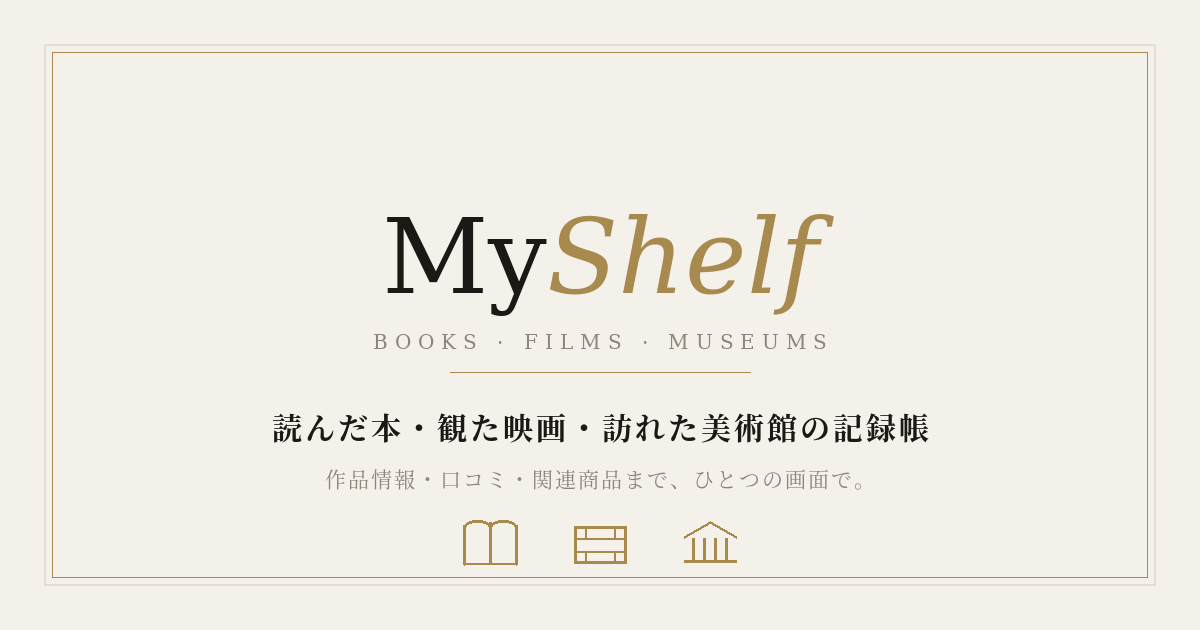
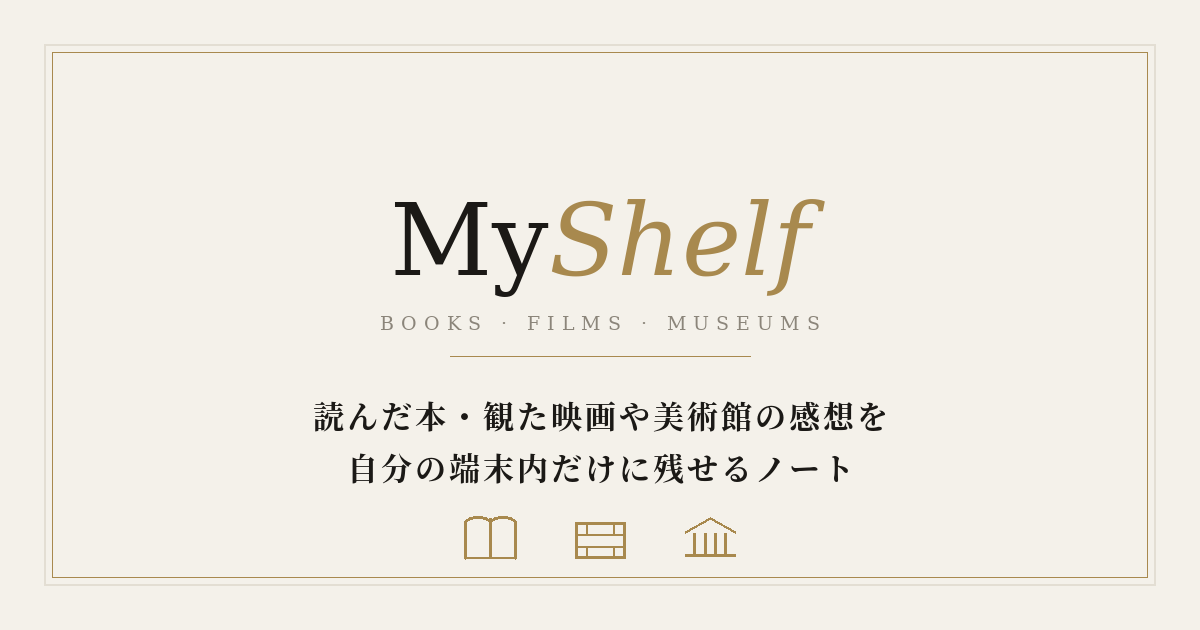
feat: カバー画像の自己登録と公開の免責、説明文を更新

diff --git a/index.html b/index.html
@@ -7,11 +7,11 @@
 <title>MyShelf — 本・映画・美術館の感想ノート</title>
 <link rel="manifest" href="manifest.json">
 <link rel="apple-touch-icon" href="icon-192.png">
-<meta name="description" content="読んだ本・観た映画・訪れた美術館の記録帳。作品情報・口コミ・関連商品まで、ひとつの画面で。">
+<meta name="description" content="読んだ本・観た映画や美術館の感想を自分の端末内だけに残せるノート">
 <meta property="og:type" content="website">
 <meta property="og:site_name" content="MyShelf">
 <meta property="og:title" content="MyShelf — 本・映画・美術館の感想ノート">
-<meta property="og:description" content="読んだ本・観た映画・訪れた美術館の記録帳。作品情報・口コミ・関連商品まで、ひとつの画面で。">
+<meta property="og:description" content="読んだ本・観た映画や美術館の感想を自分の端末内だけに残せるノート">
 <meta property="og:url" content="https://myshelf-two.vercel.app/">
 <meta property="og:image" content="https://myshelf-two.vercel.app/og.png">
 <meta property="og:image:width" content="1200">
@@ -20,7 +20,7 @@
 <meta property="og:locale" content="ja_JP">
 <meta name="twitter:card" content="summary_large_image">
 <meta name="twitter:title" content="MyShelf — 本・映画・美術館の感想ノート">
-<meta name="twitter:description" content="読んだ本・観た映画・訪れた美術館の記録帳。作品情報・口コミ・関連商品まで、ひとつの画面で。">
+<meta name="twitter:description" content="読んだ本・観た映画や美術館の感想を自分の端末内だけに残せるノート">
 <meta name="twitter:image" content="https://myshelf-two.vercel.app/og.png">
 <link rel="preconnect" href="https://fonts.googleapis.com">
 <link rel="preconnect" href="https://fonts.gstatic.com" crossorigin>
@@ -292,7 +292,11 @@ function renderForm(id){
       <div id="aclist"></div>
     </div>
     <input type="hidden" id="f_cover" value="${esc(it?.cover)}">
+    <input type="file" id="f_img" accept="image/*" style="display:none" onchange="pickCoverFile(this)">
     <div id="coverprev">${it?.cover?coverPrevHtml(it.cover):''}</div>
+    <div class="btnrow" style="margin-top:10px">
+      <button type="button" class="btn small ghost" onclick="$('#f_img').click()">カバー画像を選ぶ</button>
+    </div>
     <label id="creatorlabel">${creatorLabel(formType)}</label>
     <div class="acwrap">
       <input type="text" id="f_creator" value="${esc(it?.creator)}" placeholder="タップするとタイトルを参考に候補を表示" onfocus="onCreatorFocus()" oninput="hideAcc()" onblur="setTimeout(hideAcc,250)">
@@ -316,6 +320,31 @@ function setType(t){formType=t;document.querySelectorAll('#typesel button').forE
 function setStar(n){window._star=n;paintStars()}
 function paintStars(){document.querySelectorAll('#starinput span').forEach(s=>s.classList.toggle('lit',+s.dataset.n<=window._star))}
 function coverPrevHtml(u){return `<div class="coverprev"><img src="${esc(u)}" alt="カバー"><span class="rm" onclick="clearCover()">カバーを外す</span></div>`}
+/* 画像を端末から選んで縮小し、カバーとして保存（美術展など書影が無いとき用） */
+function shrinkImage(src,maxW,quality){
+  return new Promise((res,rej)=>{
+    const img=new Image();
+    img.onload=()=>{
+      const scale=Math.min(1,maxW/img.width);
+      const w=Math.round(img.width*scale),h=Math.round(img.height*scale);
+      const cv=document.createElement('canvas');cv.width=w;cv.height=h;
+      const cx=cv.getContext('2d');cx.fillStyle='#fff';cx.fillRect(0,0,w,h);
+      cx.drawImage(img,0,0,w,h);
+      res(cv.toDataURL('image/jpeg',quality||0.75));
+    };
+    img.onerror=rej;img.src=src;
+  });
+}
+async function pickCoverFile(input){
+  const f=input.files&&input.files[0];if(!f)return;
+  if(!/^image\//.test(f.type)){toast('画像ファイルを選んでください');return}
+  try{
+    const raw=await new Promise((res,rej)=>{const r=new FileReader();r.onload=()=>res(r.result);r.onerror=rej;r.readAsDataURL(f)});
+    const small=await shrinkImage(raw,480,0.75);
+    setCover(small);toast('カバー画像を設定しました');
+  }catch(e){toast('画像を読み込めませんでした')}
+  input.value='';
+}
 function setCover(u){if(!u)return;const f=$('#f_cover');if(!f)return;f.value=u;$('#coverprev').innerHTML=coverPrevHtml(u)}
 function clearCover(){$('#f_cover').value='';$('#coverprev').innerHTML=''}
 /* --- title autocomplete --- */
@@ -944,7 +973,7 @@ function renderSettings(){
   <button class="backlink" onclick="go('list')">← Back</button>
   <div class="panel">
     <h4>本棚を公開</h4>
-    <div class="note" style="margin:0 0 14px">自分の記録だけをまとめた公開ページのリンクを作れます。</div>
+    <div class="note" style="margin:0 0 14px">自分の記録だけをまとめた公開ページのリンクを作れます。公開するかどうか、どの記録を公開するかは利用者ご自身の判断です。<br><br>公開した内容の責任は公開したご本人にあり、運営者は公開された内容について一切の責任を負いません。リンクを知る人は誰でも閲覧できるため、第三者の権利を侵害する内容や、他人の個人情報を含む記録は公開しないでください。</div>
     <div class="btnrow" style="margin-top:0;flex-wrap:wrap;row-gap:10px">
       <button class="btn small accent" onclick="openPublish('all')">公開リンクを作る</button>
     </div>
@@ -969,7 +998,7 @@ function renderSettings(){
   </div>
   <div class="panel">
     <h4>MyShelfについて</h4>
-    <div class="note" style="margin:0">読んだ本・観た映画・訪れた美術館の記録帳です。作品情報はWikipedia、関連商品は楽天のデータを利用しています。商品リンクにはアフィリエイトを含みます。</div>
+    <div class="note" style="margin:0">読んだ本・観た映画や美術館の感想を自分の端末内だけに残せるノートです。記録はこの端末内にのみ保存され、公開リンクを作らないかぎり外部に送信されません。作品情報はWikipedia、関連商品は楽天のデータを利用しています。商品リンクにはアフィリエイトを含みます。</div>
   </div>`;
 }
 function exportJson(){
@@ -990,7 +1019,7 @@ function importJson(inp){
 }
 /* ============ アプリのシェア ============ */
 function shareUrl(){return location.origin+location.pathname.replace(/index\.html$/,'')}
-function shareText(){return 'MyShelf — 読んだ本・観た映画・訪れた美術館の感想を残せるノート'}
+function shareText(){return 'MyShelf — 読んだ本・観た映画や美術館の感想を自分の端末内だけに残せるノート'}
 async function shareApp(){
   try{
     const data={title:'MyShelf',text:shareText(),url:shareUrl()};
@@ -1061,7 +1090,7 @@ function openPublish(mode,id){
       <h3>${mode==='one'?'この記録を公開する':'棚をまるごと公開する'}</h3>
       <label style="display:block;font-size:.62rem;color:var(--gold);margin:0 0 7px;letter-spacing:.24em">公開名（任意）</label>
       <input type="text" id="pubname" value="${esc(n)}" placeholder="例: yukiko" style="width:100%;border:none;border-bottom:1px solid var(--line);padding:10px 2px;font-size:.95rem;background:transparent;font-family:var(--sans)">
-      <div class="note" style="margin-top:14px">記録の内容はリンクそのものに埋め込まれます。サーバーには保存されず、<b>リンクを知っている人だけ</b>が見られます。検索結果にも出ません。</div>
+      <div class="note" style="margin-top:14px">記録の内容はリンクそのものに埋め込まれます。サーバーには保存されず、<b>リンクを知っている人だけ</b>が見られます。検索結果にも出ません。<br><br>公開した内容の責任は公開したご本人にあります。運営者は内容について責任を負いません。</div>
       <div id="publink" style="margin-top:16px"></div>
       <div class="btnrow">
         <button class="btn primary" onclick="makePublicLink()">リンクを作る</button>
@@ -1079,10 +1108,19 @@ async function makePublicLink(){
     if(pubDraft.mode==='one'){
       const it=items.find(x=>x.id===pubDraft.id);
       if(!it)throw new Error('no item');
-      list=[slimItem(it,await topProduct(it))];
+      const one=slimItem(it,await topProduct(it));
+      if(one.v&&one.v.startsWith('data:')){try{one.v=await shrinkImage(one.v,240,0.6)}catch(e){delete one.v}}
+      list=[one];
     }else{
       const src=items.slice(0,30);
-      list=src.map(it=>slimItem(it,null));
+      list=await Promise.all(src.map(async it=>{
+        const o=slimItem(it,null);
+        if(o.v&&o.v.startsWith('data:')){
+          if(src.length<=5){try{o.v=await shrinkImage(o.v,200,0.55)}catch(e){delete o.v}}
+          else delete o.v;
+        }
+        return o;
+      }));
     }
     const payload={v:1,n:name,i:list};
     const packed=await packData(payload);
@@ -1127,7 +1165,7 @@ function renderPublic(){
     </div>
     ${list.map(pubCard).join('')}
     <div class="panel" style="text-align:center">
-      <div class="note" style="margin:0 0 14px">この本棚はMyShelfで作られています。</div>
+      <div class="note" style="margin:0 0 14px">この本棚はMyShelfで作られています。<br>掲載内容は公開した本人によるもので、運営者は内容について責任を負いません。</div>
       <div class="btnrow" style="margin-top:0"><button class="btn primary" onclick="location.hash='';location.reload()">自分の本棚をつくる</button></div>
     </div>`;
   if(list.some(x=>(x.s||[]).some(xValid)))loadXWidgets('#view');
